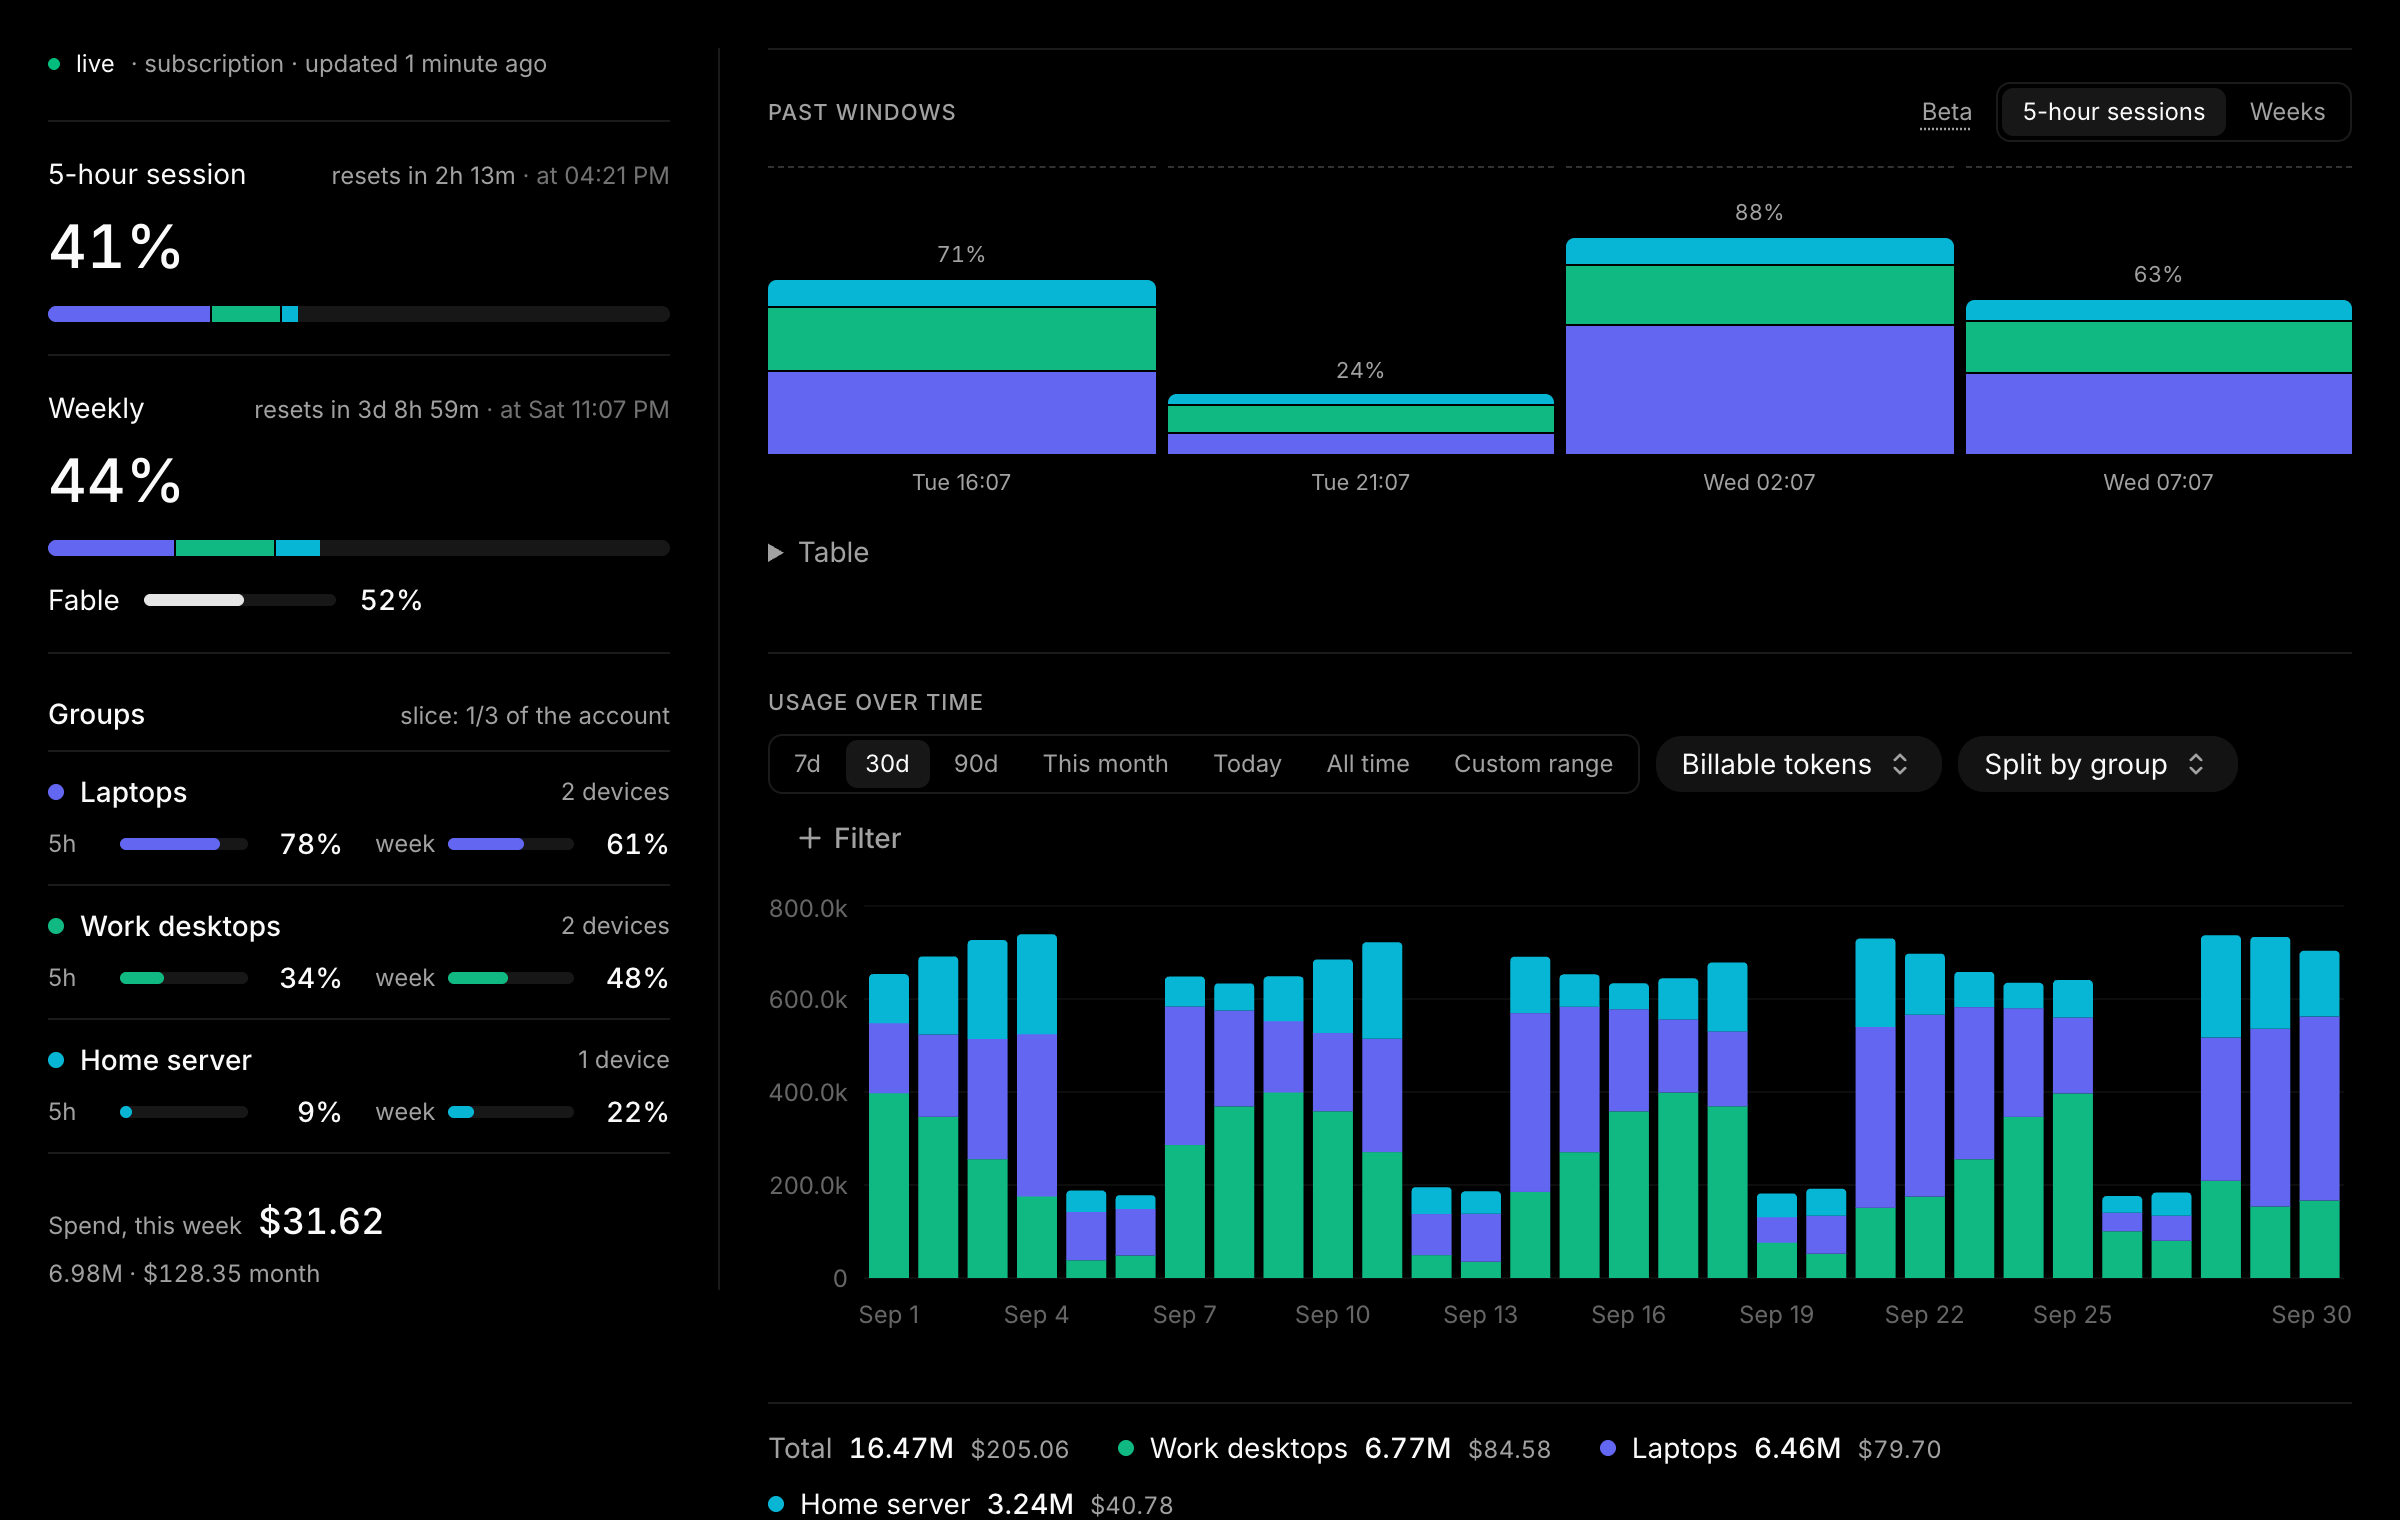
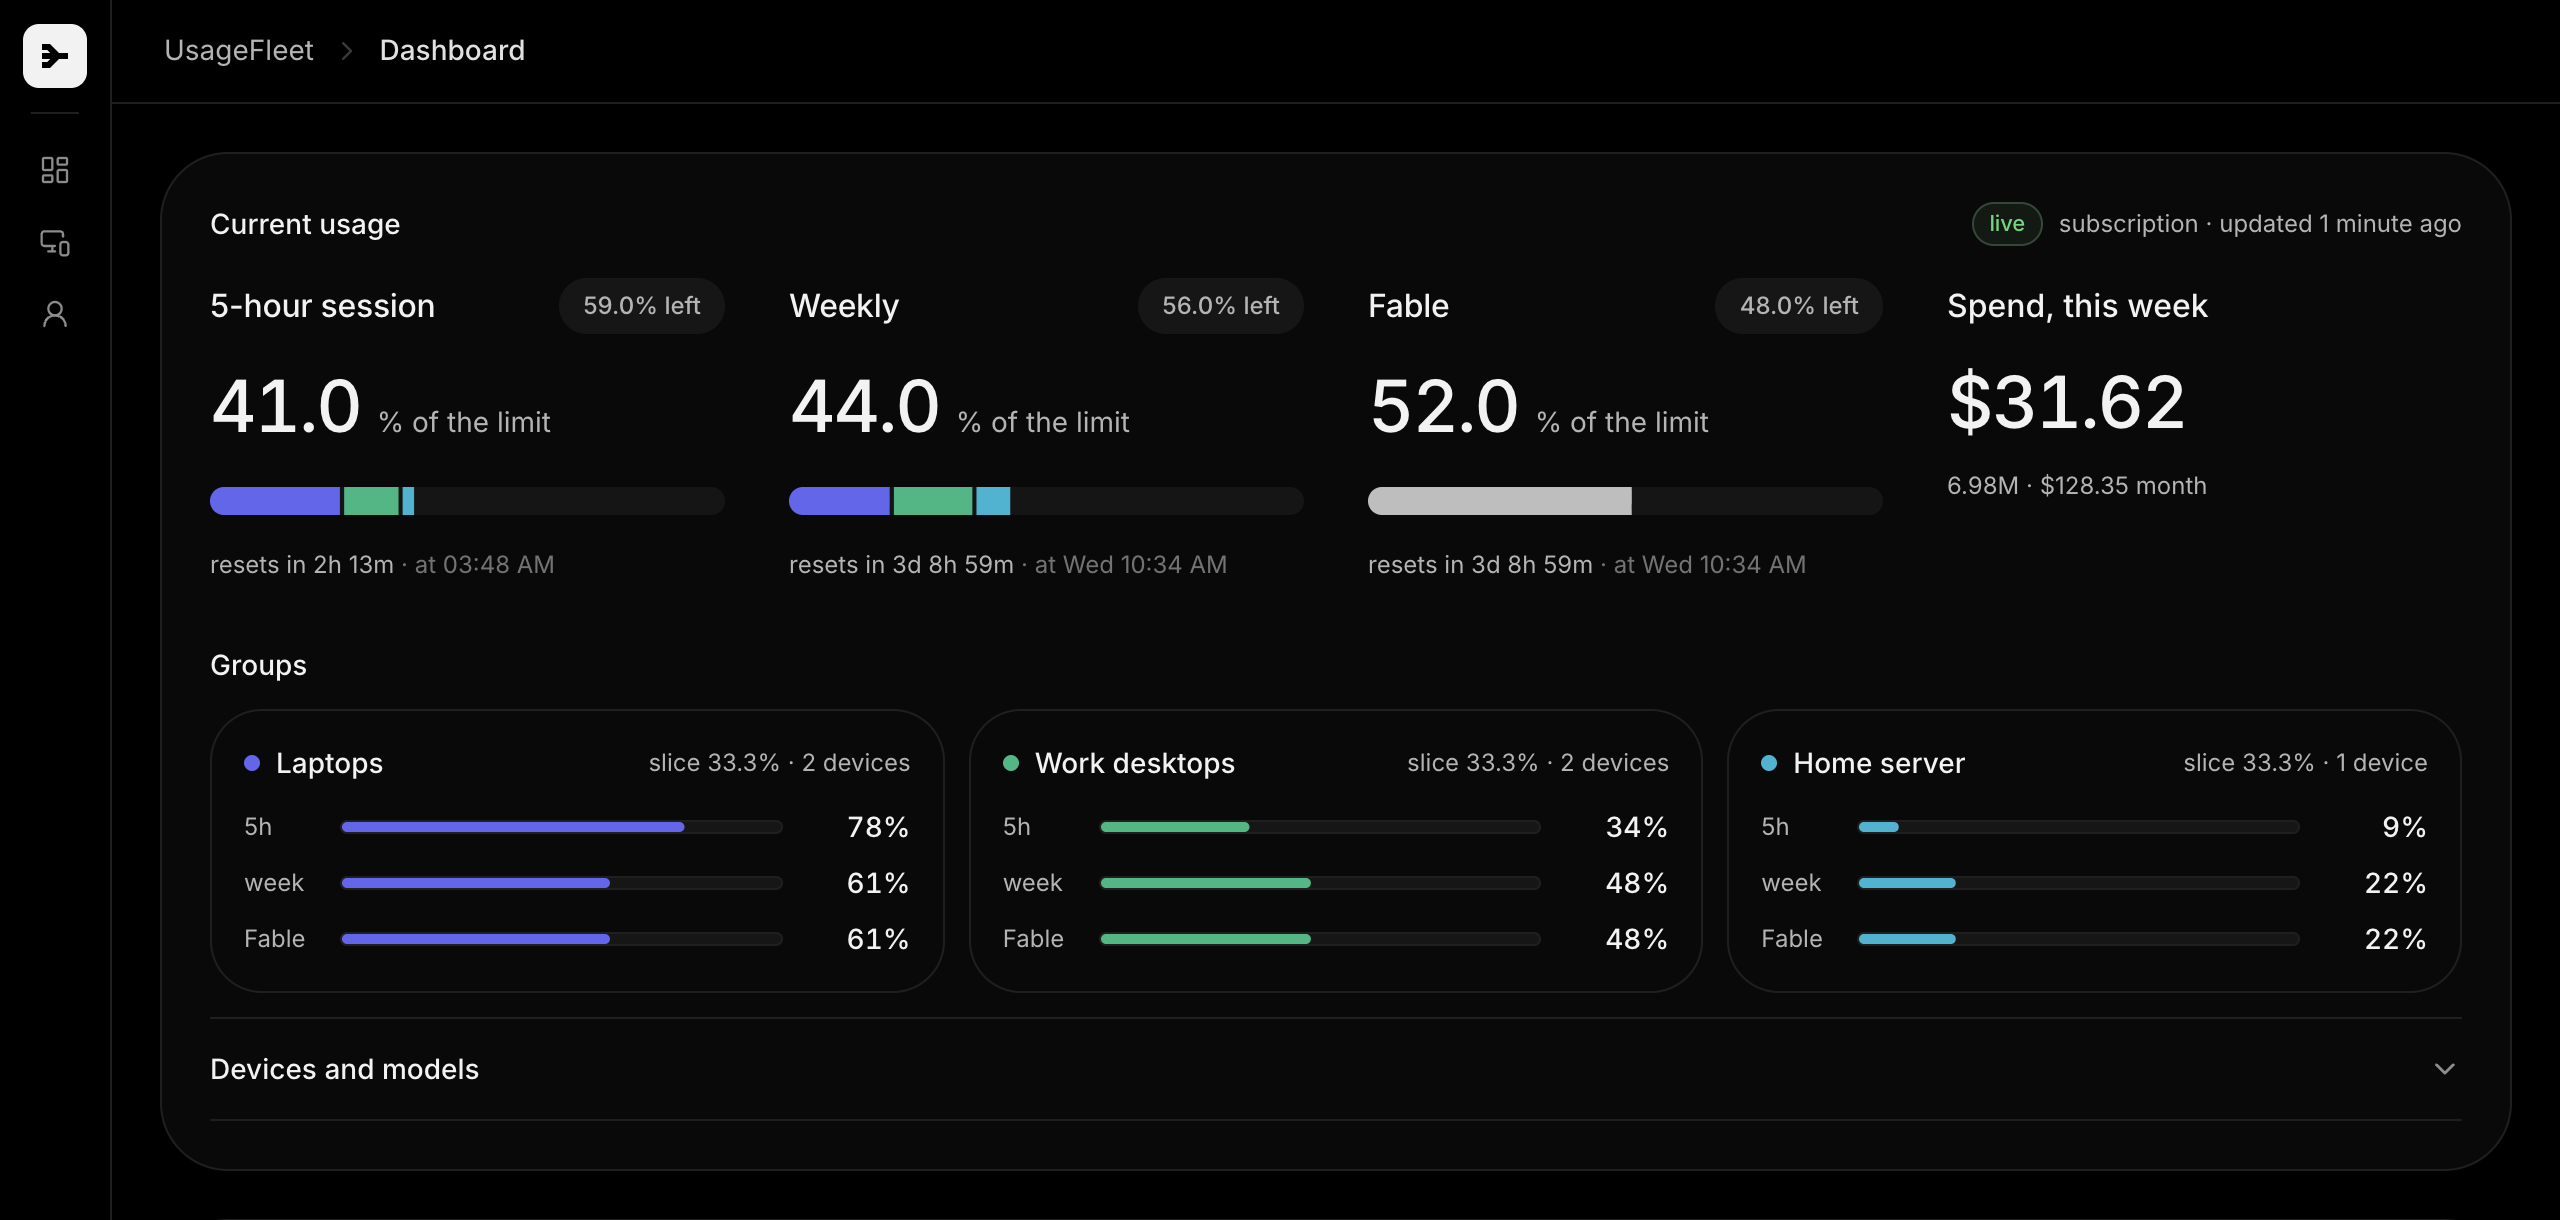
docs: refresh README screenshots for the cockpit dashboard
Recaptured dashboard.png and usage-over-time.png from /shots at 2x, and
updated the alt text and the usage-over-time copy to match the line chart
and the four always-visible filters.

diff --git a/README.md b/README.md
@@ -17,7 +17,7 @@ Free for one device.
 
 ## What you get
 
-<img src=".github/dashboard.png" alt="Dashboard: 5-hour and weekly utilization split by group, each group against its slice, and past windows" width="100%">
+<img src=".github/dashboard.png" alt="Dashboard: 5-hour, weekly and Fable utilization split by group, each group against its slice, and spend this week" width="100%">
 
 The percentages are Anthropic's, not an estimate: a small collector on each
 machine reads them from Anthropic's own usage endpoint (the one Claude's
@@ -81,13 +81,12 @@ time; the free plan keeps working.
 
 ## Usage over time
 
-<img src=".github/usage-over-time.png" alt="Usage over time, split by group, with per-group token and cost totals" width="100%">
+<img src=".github/usage-over-time.png" alt="Usage over time, one line per group, with per-group token and cost totals" width="100%">
 
 Pick a period, a metric (billable, total, input, output, cache-read or cost) and
-what to split the bars by — group, model, device or source. **+ Filter** narrows
-by any of the same four, so "Opus on the two work desktops, last 90 days" is a
-few clicks; with nothing filtered the controls stay out of the way. The ledger
-under the chart totals the same slice.
+what to split the lines by: group, model, device or source. The filters narrow
+by the same four, so "Opus on the two work desktops, last 90 days" is a few
+clicks. The ledger under the chart totals the same slice.
 
 ## Development
 
